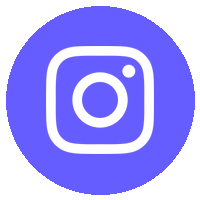
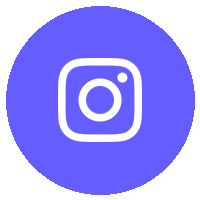
style(signature): badge gros, glyphe plus petit avec marge (v3)

Changed region(s): [[0.21, 0.21, 0.78, 0.78]]

diff --git a/email-signature.html b/email-signature.html
@@ -30,8 +30,8 @@
                     <table cellpadding="0" cellspacing="0" border="0" style="font-family: Verdana, Arial, sans-serif;">
                       <tbody>
                         <tr style="height: 42px;">
-                          <td width="40" style="width: 40px; vertical-align: middle;">
-                            <img src="https://noecalmes.fr/assets/images/signature/email.png?v=2" alt="Email" width="30" style="display: block; width: 30px; border: 0;" />
+                          <td width="52" style="width: 52px; vertical-align: middle;">
+                            <img src="https://noecalmes.fr/assets/images/signature/email.png?v=3" alt="Email" width="40" style="display: block; width: 40px; border: 0;" />
                           </td>
                           <td style="vertical-align: middle;">
                             <a href="mailto:contact@noecalmes.fr" style="color: #043475; font-size: 15px; line-height: 22px; text-decoration: none;">
@@ -40,8 +40,8 @@
                           </td>
                         </tr>
                         <tr style="height: 42px;">
-                          <td width="40" style="width: 40px; vertical-align: middle;">
-                            <img src="https://noecalmes.fr/assets/images/signature/web.png?v=2" alt="Site web" width="30" style="display: block; width: 30px; border: 0;" />
+                          <td width="52" style="width: 52px; vertical-align: middle;">
+                            <img src="https://noecalmes.fr/assets/images/signature/web.png?v=3" alt="Site web" width="40" style="display: block; width: 40px; border: 0;" />
                           </td>
                           <td style="vertical-align: middle;">
                             <a href="https://noecalmes.fr/" style="color: #043475; font-size: 15px; line-height: 22px; text-decoration: none;">
@@ -55,11 +55,11 @@
                         <tr>
                           <td colspan="2" style="vertical-align: middle; text-align: left;">
                             <a href="https://wa.me/33658308210" style="display: inline-block; text-decoration: none;">
-                              <img src="https://noecalmes.fr/assets/images/signature/whatsapp.png?v=2" alt="WhatsApp" width="30" style="display: inline-block; width: 30px; border: 0;" />
+                              <img src="https://noecalmes.fr/assets/images/signature/whatsapp.png?v=3" alt="WhatsApp" width="40" style="display: inline-block; width: 40px; border: 0;" />
                             </a><span style="display: inline-block; width: 6px;"></span><a href="https://www.linkedin.com/in/noecalmes" style="display: inline-block; text-decoration: none;">
-                              <img src="https://noecalmes.fr/assets/images/signature/linkedin.png?v=2" alt="LinkedIn" width="30" style="display: inline-block; width: 30px; border: 0;" />
+                              <img src="https://noecalmes.fr/assets/images/signature/linkedin.png?v=3" alt="LinkedIn" width="40" style="display: inline-block; width: 40px; border: 0;" />
                             </a><span style="display: inline-block; width: 6px;"></span><a href="https://www.instagram.com/noecalmes.app/" style="display: inline-block; text-decoration: none;">
-                              <img src="https://noecalmes.fr/assets/images/signature/instagram.png?v=2" alt="Instagram" width="30" style="display: inline-block; width: 30px; border: 0;" />
+                              <img src="https://noecalmes.fr/assets/images/signature/instagram.png?v=3" alt="Instagram" width="40" style="display: inline-block; width: 40px; border: 0;" />
                             </a>
                           </td>
                         </tr>
